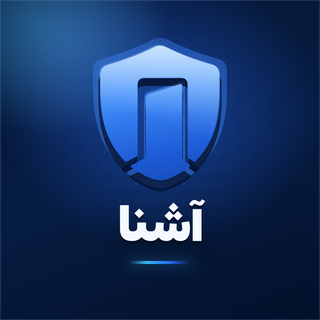
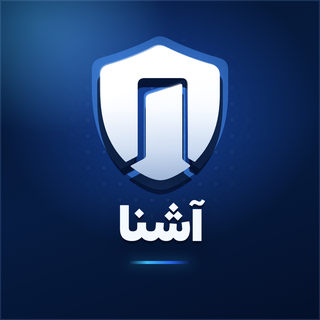
thumbnail: switch the shield to white
The blue shield sank into the navy background at listing size. The body
is now white with a cool blue fall-off toward the base, plus an inner
multiply shade, a stronger gloss and a brighter rim, so the mark reads as
a solid lit shield. The cast shadow got a touch heavier to keep the
separation the colour contrast used to provide.

Changed region(s): [[0.2812, 0.0938, 0.7188, 0.5938], [0.4688, 0.5938, 0.5312, 0.625]]

diff --git a/product-images/thumbnail/index.html b/product-images/thumbnail/index.html
@@ -38,13 +38,16 @@
     -webkit-mask:url('../infographic/img/ashna-icon.svg') center/contain no-repeat;
     mask:url('../infographic/img/ashna-icon.svg') center/contain no-repeat}
 
-  .glow{background:#3B82F6;filter:blur(22px);transform:scale(1.12);opacity:.55;z-index:-1}
-  .cast{background:#01091C;filter:blur(13px);transform:translate(0,9px) scale(1.03);opacity:.7}
-  .body{background:linear-gradient(168deg,#7EB6FF 0%,#3D8BFA 38%,#1D5AD6 74%,#1746AD 100%)}
-  .gloss{background:linear-gradient(180deg,rgba(255,255,255,.62) 0%,rgba(255,255,255,.16) 34%,rgba(255,255,255,0) 52%);
-    mix-blend-mode:screen;opacity:.95}
-  .rim{background:linear-gradient(200deg,rgba(190,225,255,.95),rgba(120,180,250,0) 55%);
-    transform:translate(-1px,-1px);opacity:.55;mix-blend-mode:screen}
+  .glow{background:#4E9BFF;filter:blur(24px);transform:scale(1.14);opacity:.62;z-index:-1}
+  .cast{background:#01091C;filter:blur(15px);transform:translate(0,11px) scale(1.05);opacity:.78}
+  /* white mark with a cool blue fall-off so it reads as a solid metal shield, not a flat sticker */
+  .body{background:linear-gradient(170deg,#FFFFFF 0%,#FFFFFF 34%,#EEF5FF 58%,#D8E7FB 80%,#C3D8F4 100%)}
+  .shade{background:linear-gradient(0deg,rgba(28,66,124,.34) 0%,rgba(28,66,124,.10) 26%,rgba(28,66,124,0) 52%);
+    mix-blend-mode:multiply;opacity:.9}
+  .gloss{background:linear-gradient(180deg,rgba(255,255,255,.92) 0%,rgba(255,255,255,.30) 30%,rgba(255,255,255,0) 52%);
+    mix-blend-mode:screen;opacity:1}
+  .rim{background:linear-gradient(200deg,rgba(255,255,255,1),rgba(160,205,255,0) 56%);
+    transform:translate(-1px,-1px);opacity:.85;mix-blend-mode:screen}
 
   /* ---------------- name ---------------- */
   .name{position:relative;margin-top:16px;font-weight:900;font-size:50px;line-height:1;color:#F4F9FF;
@@ -67,6 +70,7 @@
     <span class="glow"></span>
     <span class="cast"></span>
     <span class="body"></span>
+    <span class="shade"></span>
     <span class="gloss"></span>
     <span class="rim"></span>
   </div>

diff --git a/product-images/thumbnail/README-FA.md b/product-images/thumbnail/README-FA.md
@@ -28,7 +28,7 @@ python3 -c "from PIL import Image; im=Image.open('/tmp/icon-4x.png').convert('RG
 
 ## ساختار طرح
 
-- **نشان:** سپر آشنا از `../infographic/img/ashna-icon.svg` که با `mask` به پنج لایه تبدیل شده: هاله، سایه، بدنهٔ گرادیانی، برق سطح و ریملایت.
+- **نشان سفید:** سپر آشنا از `../infographic/img/ashna-icon.svg` که با `mask` به شش لایه تبدیل شده: هاله، سایه، بدنهٔ سفید با افت آبی سرد در پایین، سایهٔ داخلی، برق سطح و ریملایت. سفید بودن نشان با پسزمینهٔ سرمهای کنتراست بالا میسازد و در اندازهٔ فهرست محصول هم خوانا میماند.
 - **نام:** «آشنا» با فونت Estedad 900، سایهٔ دوطبقه و خط نور آبی زیر آن.
 - **پسزمینه:** سرمهای آشنا با هالهٔ مرکزی، شبکهٔ نقطهای محو و نور گوشه.
 - **حاشیهٔ امن:** نشان و نام داخل ۱۰٪ مرکزی ماندند تا در برشهای مربعی و دایرهای آسیب نبینند.
